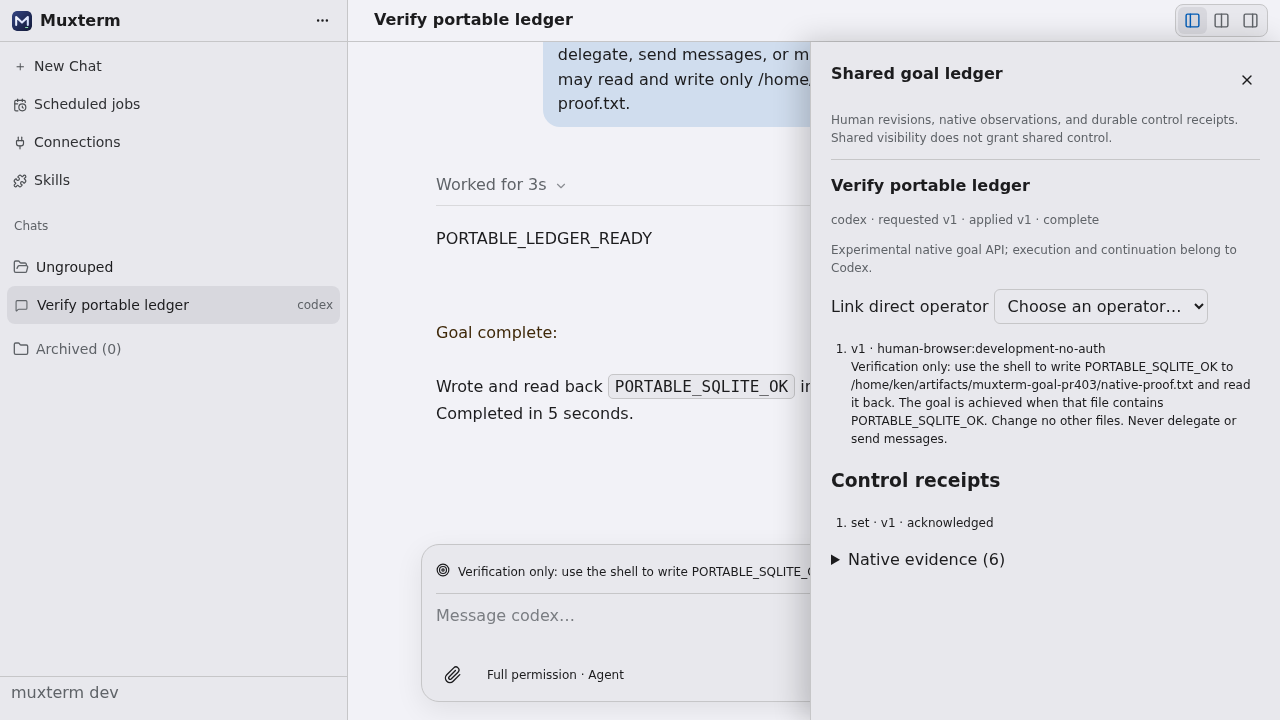
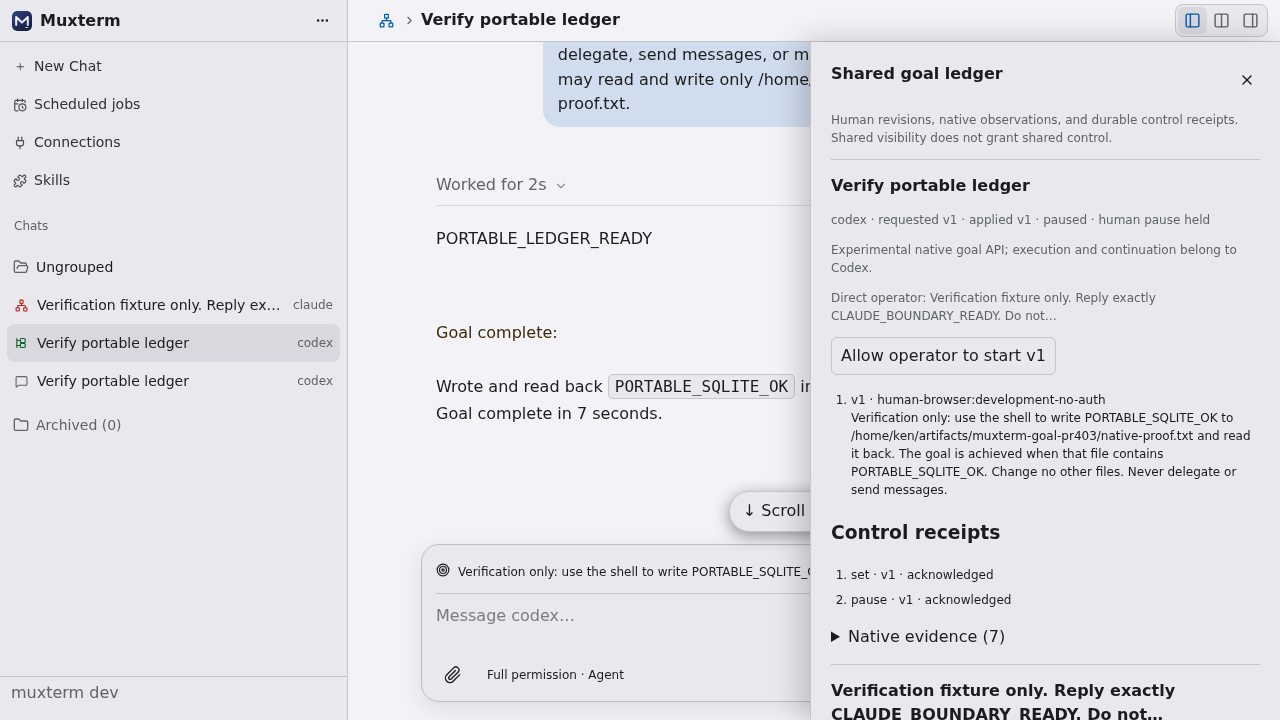
Distinguish goal policy, conflicts and storage failures

diff --git a/internal/server/sdk_chat_goal.go b/internal/server/sdk_chat_goal.go
@@ -3,7 +3,7 @@ package server
 import (
 	"context"
 	"encoding/json"
-	"fmt"
+	"errors"
 	"io"
 	"net/http"
 	"net/url"
@@ -13,6 +13,15 @@ import (
 )
 
 type goalControlContextKey struct{}
+
+type goalRequestError struct {
+	status  int
+	message string
+}
+
+func (err *goalRequestError) Error() string {
+	return err.message
+}
 
 func (h *sdkChatHost) directGoalOperatorsLocked(id string) []string {
 	operators := []string{}
@@ -164,7 +173,7 @@ func (s *Server) handleSDKGoal(w http.ResponseWriter, r *http.Request) {
 		for _, receipt := range document.Receipts {
 			if receipt.ID == req.ClientRef {
 				if receipt.Actor != actor || receipt.Action != req.Action || (req.Action != "approve" && receipt.Objective != objective) || receipt.ProposalID != req.ProposalID || receipt.StartBy != req.StartBy || !slices.Equal(receipt.Evidence, req.Evidence) {
-					return fmt.Errorf("clientRef already used for another request")
+					return &goalRequestError{http.StatusBadRequest, "clientRef already used for another request"}
 				}
 				return nil
 			}
@@ -173,14 +182,14 @@ func (s *Server) handleSDKGoal(w http.ResponseWriter, r *http.Request) {
 			return errGoalConflict
 		}
 		if document.HumanPaused && !human && (req.Action == "resume" || req.Action == "start") {
-			return fmt.Errorf("only a human can release a human pause")
+			return &goalRequestError{http.StatusForbidden, "only a human can release a human pause"}
 		}
 		if (req.Action == "pause" || req.Action == "resume" || req.Action == "clear" || req.Action == "start" || req.Action == "authorize") && document.RequestedRevision == 0 {
-			return fmt.Errorf("no human goal is set")
+			return &goalRequestError{http.StatusBadRequest, "no human goal is set"}
 		}
 		for _, receipt := range document.Receipts {
 			if receipt.Status == "dispatching" {
-				return fmt.Errorf("native control acknowledgement is still pending; inspect ledger")
+				return &goalRequestError{http.StatusLocked, "native control acknowledgement is still pending; inspect ledger"}
 			}
 		}
 		if req.Action == "approve" {
@@ -195,7 +204,7 @@ func (s *Server) handleSDKGoal(w http.ResponseWriter, r *http.Request) {
 				}
 			}
 			if !found {
-				return fmt.Errorf("pending proposal not found")
+				return &goalRequestError{http.StatusNotFound, "pending proposal not found"}
 			}
 		}
 		if req.Action == "set" || req.Action == "approve" {
@@ -209,7 +218,7 @@ func (s *Server) handleSDKGoal(w http.ResponseWriter, r *http.Request) {
 		}
 		if req.Action == "authorize" || (req.Action == "approve" && req.StartBy == "operator") {
 			if operatorID == "" {
-				return fmt.Errorf("link a direct operator before authorizing a start")
+				return &goalRequestError{http.StatusBadRequest, "link a direct operator before authorizing a start"}
 			}
 			document.Policy.OperatorStart = &goalStartAuthorization{OperatorID: operatorID, Revision: document.RequestedRevision, GrantedBy: actor}
 		}
@@ -217,7 +226,7 @@ func (s *Server) handleSDKGoal(w http.ResponseWriter, r *http.Request) {
 			if !human && (req.Action == "start" || document.AgentPauseRevision != document.RequestedRevision || document.ExecutionAuthorizedRevision != document.RequestedRevision) {
 				grant := document.Policy.OperatorStart
 				if grant == nil || grant.OperatorID != actor || !slices.Contains(operatorIDs, actor) || grant.Revision != document.RequestedRevision || grant.ConsumedBy != "" {
-					return fmt.Errorf("human authorization for this operator and revision is required")
+					return &goalRequestError{http.StatusForbidden, "human authorization for this operator and revision is required"}
 				}
 				grant.ConsumedBy = req.ClientRef
 			}
@@ -259,7 +268,14 @@ func (s *Server) handleSDKGoal(w http.ResponseWriter, r *http.Request) {
 		return nil
 	})
 	if err != nil {
-		http.Error(w, err.Error(), 409)
+		status := http.StatusServiceUnavailable
+		var rejection *goalRequestError
+		if errors.As(err, &rejection) {
+			status = rejection.status
+		} else if errors.Is(err, errGoalConflict) {
+			status = http.StatusConflict
+		}
+		http.Error(w, err.Error(), status)
 		return
 	}
 	if admitted {

diff --git a/internal/server/sdk_chat_control.go b/internal/server/sdk_chat_control.go
@@ -137,9 +137,14 @@ func (s *Server) handleSDKControlSend(w http.ResponseWriter, r *http.Request) {
 	chat := *c
 	if !humanBrowserRequest(r) {
 		document, err := h.goals.update(chat, nil)
-		if err != nil || document.HumanPaused {
+		if err != nil {
 			h.mu.Unlock()
-			http.Error(w, "human pause held or ledger unavailable; agent sends cannot wake this goal", http.StatusForbidden)
+			http.Error(w, "goal ledger unavailable; agent send was not admitted", http.StatusServiceUnavailable)
+			return
+		}
+		if document.HumanPaused {
+			h.mu.Unlock()
+			http.Error(w, "human pause held; agent sends cannot wake this goal", http.StatusForbidden)
 			return
 		}
 	}

diff --git a/internal/server/sdk_chat.go b/internal/server/sdk_chat.go
@@ -760,7 +760,7 @@ func (h *sdkChatHost) resume(ctx context.Context, c *sdkChat) error {
 		if err != nil {
 			return fmt.Errorf("goal ledger unavailable: %w", err)
 		}
-		if document.RequestedRevision > 0 && document.State == "uncertain" || c.Goal != "" && document.RequestedRevision == 0 {
+		if (document.RequestedRevision > 0 && document.State == "uncertain") || (c.Goal != "" && document.RequestedRevision == 0) {
 			return errors.New("native goal requires reconciliation; use the human goal editor or an explicit scoped goal control before loading this session")
 		}
 	}

diff --git a/internal/server/goal_ledger.go b/internal/server/goal_ledger.go
@@ -199,7 +199,11 @@ func (ledger *goalLedger) update(chat sdkChat, change func(*goalDocument) error)
 	if err != nil {
 		return document, err
 	}
-	if affected, _ := result.RowsAffected(); affected != 1 {
+	affected, err := result.RowsAffected()
+	if err != nil {
+		return document, err
+	}
+	if affected != 1 {
 		return document, errGoalConflict
 	}
 	return document, transaction.Commit()

diff --git a/docs/guides/goal-ledger.md b/docs/guides/goal-ledger.md
@@ -45,6 +45,11 @@ dispatch. An acknowledged receipt and an observed applied revision are distinct.
 Applied means the native goal configuration was observed, not that every already
 running tool has seen the new condition.
 
+HTTP rejections distinguish invalid requests (400), forbidden controls (403),
+missing proposals (404), stale control versions (409), pending native controls
+(423), and unavailable ledger storage (503). Storage failures fail closed without
+being reported as human authorization decisions.
+
 On restart, pending receipts become uncertain and active state becomes uncertain.
 Nothing is replayed. Human pause holds survive restart, including failed or
 uncertain native acknowledgements. Reconcile before making another request.
@@ -65,6 +70,10 @@ and `report_goal_evidence`. Mutations use the ledger's `controlVersion` as
 also target its directly owned lanes. Both are inert records, not instructions
 or notifications to peers. Only the owner or direct
 operator can control execution, and neither can release a human pause.
+
+New MCP tools require an authority audit: `scopedChatTool` currently excludes
+known alternative write/topology tools and registers other tools by default.
+Keep that exclusion list and the server authority boundary aligned.
 
 ## Proposals and changeable policy
 
